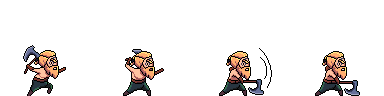
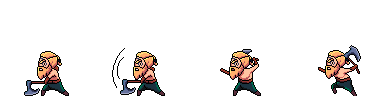
sprite animation

diff --git a/js/game.js b/js/game.js
@@ -1,3 +1,5 @@
+import SpriteAnimation from './spriteAnimation.js';
+
 function loadBackground(path) {
   return new Promise((resolve, reject) => {
     const img = new Image();
@@ -165,7 +167,7 @@ async function main() {
   const forthLayer = makeLayer(context, assetManager.getImage('layer4'), { x: 0, y: -100 }, iamgeScaleFactor);
 
   // Player configuration
-  const playerWidth = 60;
+  const playerWidth = 57;
   const playerHeight = 35;
   let playerPosition = { x: 50, y: 350 };
   let playerVelocity = 0;
@@ -173,14 +175,22 @@ async function main() {
   let isTouchingGround = false;
 
   // Player Sprite config
-  const playerImage = assetManager.getImage('playerImage');
+  const playerSpriteSheet = assetManager.getImage('playerImage');
   const numberOfPlayerSprites = 7;
-  const playerSpriteMaxHeight = playerImage.height;
-  const playerSpriteMaxWidth = playerImage.width / numberOfPlayerSprites;
+  const playerSpriteMaxHeight = playerSpriteSheet.height;
+  const playerSpriteMaxWidth = playerSpriteSheet.width / numberOfPlayerSprites;
   const playerSpriteHeight = 35;
   const playerSpriteWidth = 60;
   const playerSpriteX = 0;
   const playerSprite = 0;
+
+  const playerAnimation = new SpriteAnimation(
+    playerSpriteSheet,
+    playerSpriteMaxWidth,
+    playerSpriteMaxHeight,
+    numberOfPlayerSprites,
+    0.1 // seconds
+  );
 
   let gravity = 500;
   let keys = {};
@@ -229,7 +239,7 @@ async function main() {
     });
   }
 
-  const bottomLine = canvas.height - playerHeight - 90;
+  const bottomLine = canvas.height - playerHeight - 85;
 
   function updateState(deltaTime) {
     // apply dynamics
@@ -256,6 +266,8 @@ async function main() {
     checkCollision();
 
     updateObstacles(deltaTime);
+
+    playerAnimation.update(deltaTime);
   }
 
   function jump() {
@@ -289,7 +301,7 @@ async function main() {
   let obstacles = [];
 
   function generateObstacle() {
-    const obstaclePosition = { x: canvas.width, y: canvas.height - obstacleHeight - 90 };
+    const obstaclePosition = { x: canvas.width, y: canvas.height - obstacleHeight - 85 };
     obstacles.push(obstaclePosition);
   }
 
@@ -347,17 +359,8 @@ async function main() {
     // Player draw
     context.fillStyle = 'blue';
     context.fillRect(playerPosition.x, playerPosition.y, playerWidth, playerHeight);
-    context.drawImage(
-      playerImage,
-      26,
-      93,
-      playerSpriteWidth,
-      playerSpriteHeight,
-      playerPosition.x,
-      playerPosition.y,
-      playerSpriteWidth,
-      playerSpriteHeight
-    );
+
+    playerAnimation.draw(context, playerPosition.x - playerWidth / 2, playerPosition.y - playerHeight - bottomLine + 90);
 
     drawObstacles();
 

diff --git a/js/spriteAnimation.js b/js/spriteAnimation.js
@@ -1,0 +1,55 @@
+class SpriteAnimation {
+    constructor(sprite, frameWidth, frameHeight, frameCount, animationSpeed) {
+        this.sprite = sprite;
+        this.frameWidth = frameWidth;
+        this.frameHeight = frameHeight;
+        this.frameCount = frameCount;
+        this.animationSpeed = animationSpeed;
+        this.currentFrame = 0;
+        this.elapsedTime = 0;
+    }
+
+    // update(deltaTime) {
+    //   this.elapsedTime += deltaTime;
+    //   if (this.elapsedTime >= this.animationSpeed) {
+    //     this.elapsedTime = 0;
+    //     this.currentFrame = (this.currentFrame + 1) % this.frameCount;
+    //     console.log(this.currentFrame);
+    //   }
+    // }
+
+    update(deltaTime) {
+        // console.log(`Received deltaTime: ${deltaTime}ms`); 
+        this.elapsedTime += deltaTime;
+        // console.log(`Elapsed time: ${this.elapsedTime}/${this.animationSpeed}`); 
+
+        if (this.elapsedTime >= this.animationSpeed) {
+            // console.log("Updating frame"); 
+            this.elapsedTime -= this.animationSpeed;
+            this.currentFrame = (this.currentFrame + 1) % this.frameCount;
+        }
+    }
+
+
+    draw(context, x, y, scale = 1) {
+        // console.log('Drawing sprite at:', x, y); 
+        // console.log('Current frame:', this.currentFrame);
+        // console.log('Sprite dimensions:', this.frameWidth, this.frameHeight);
+
+        const frameX = this.currentFrame * this.frameWidth;
+        const frameY = 0; // assuming all frames are on the same row
+        context.drawImage(
+            this.sprite,
+            frameX,
+            frameY,
+            this.frameWidth,
+            this.frameHeight,
+            x,
+            y,
+            this.frameWidth * scale,
+            this.frameHeight * scale
+        );
+    }
+}
+
+export default SpriteAnimation;

diff --git a/index.html b/index.html
@@ -10,7 +10,7 @@
     <link rel="preconnect" href="https://fonts.gstatic.com" crossorigin>
     <link href="https://fonts.googleapis.com/css2?family=Bangers&display=swap" rel="stylesheet">
     <link rel="stylesheet" href="./css/styles.css">
-    <audio id ="song" src="./assets/sounds/slime-song-1.mp3"></audio>
+    <!-- <audio id ="song" src="./assets/sounds/slime-song-1.mp3"></audio> -->
     <script defer type="module" src="./js/game.js"></script>
 </head>
 
